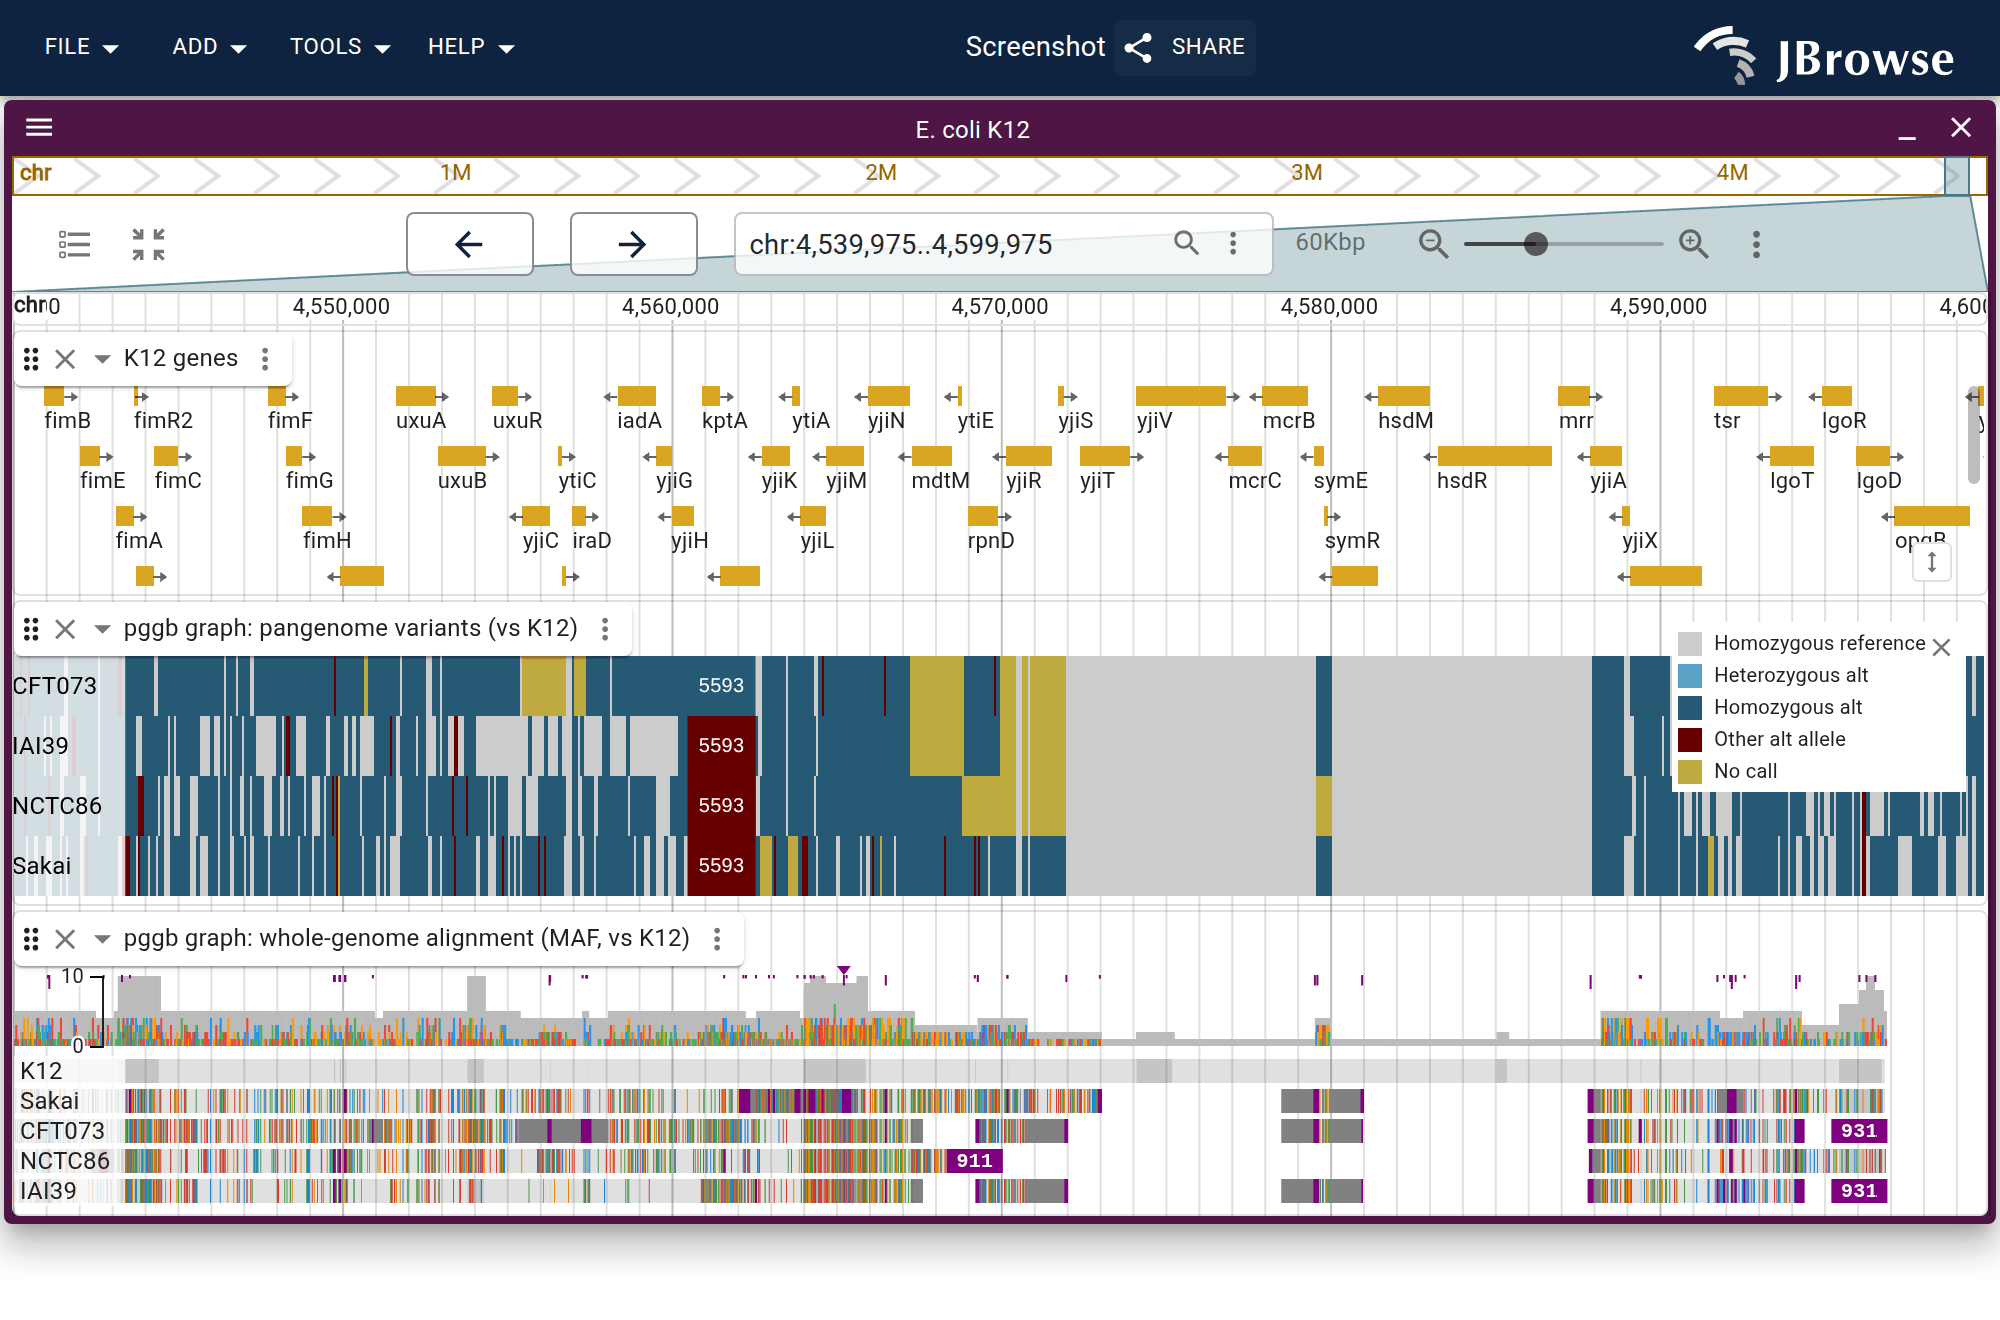
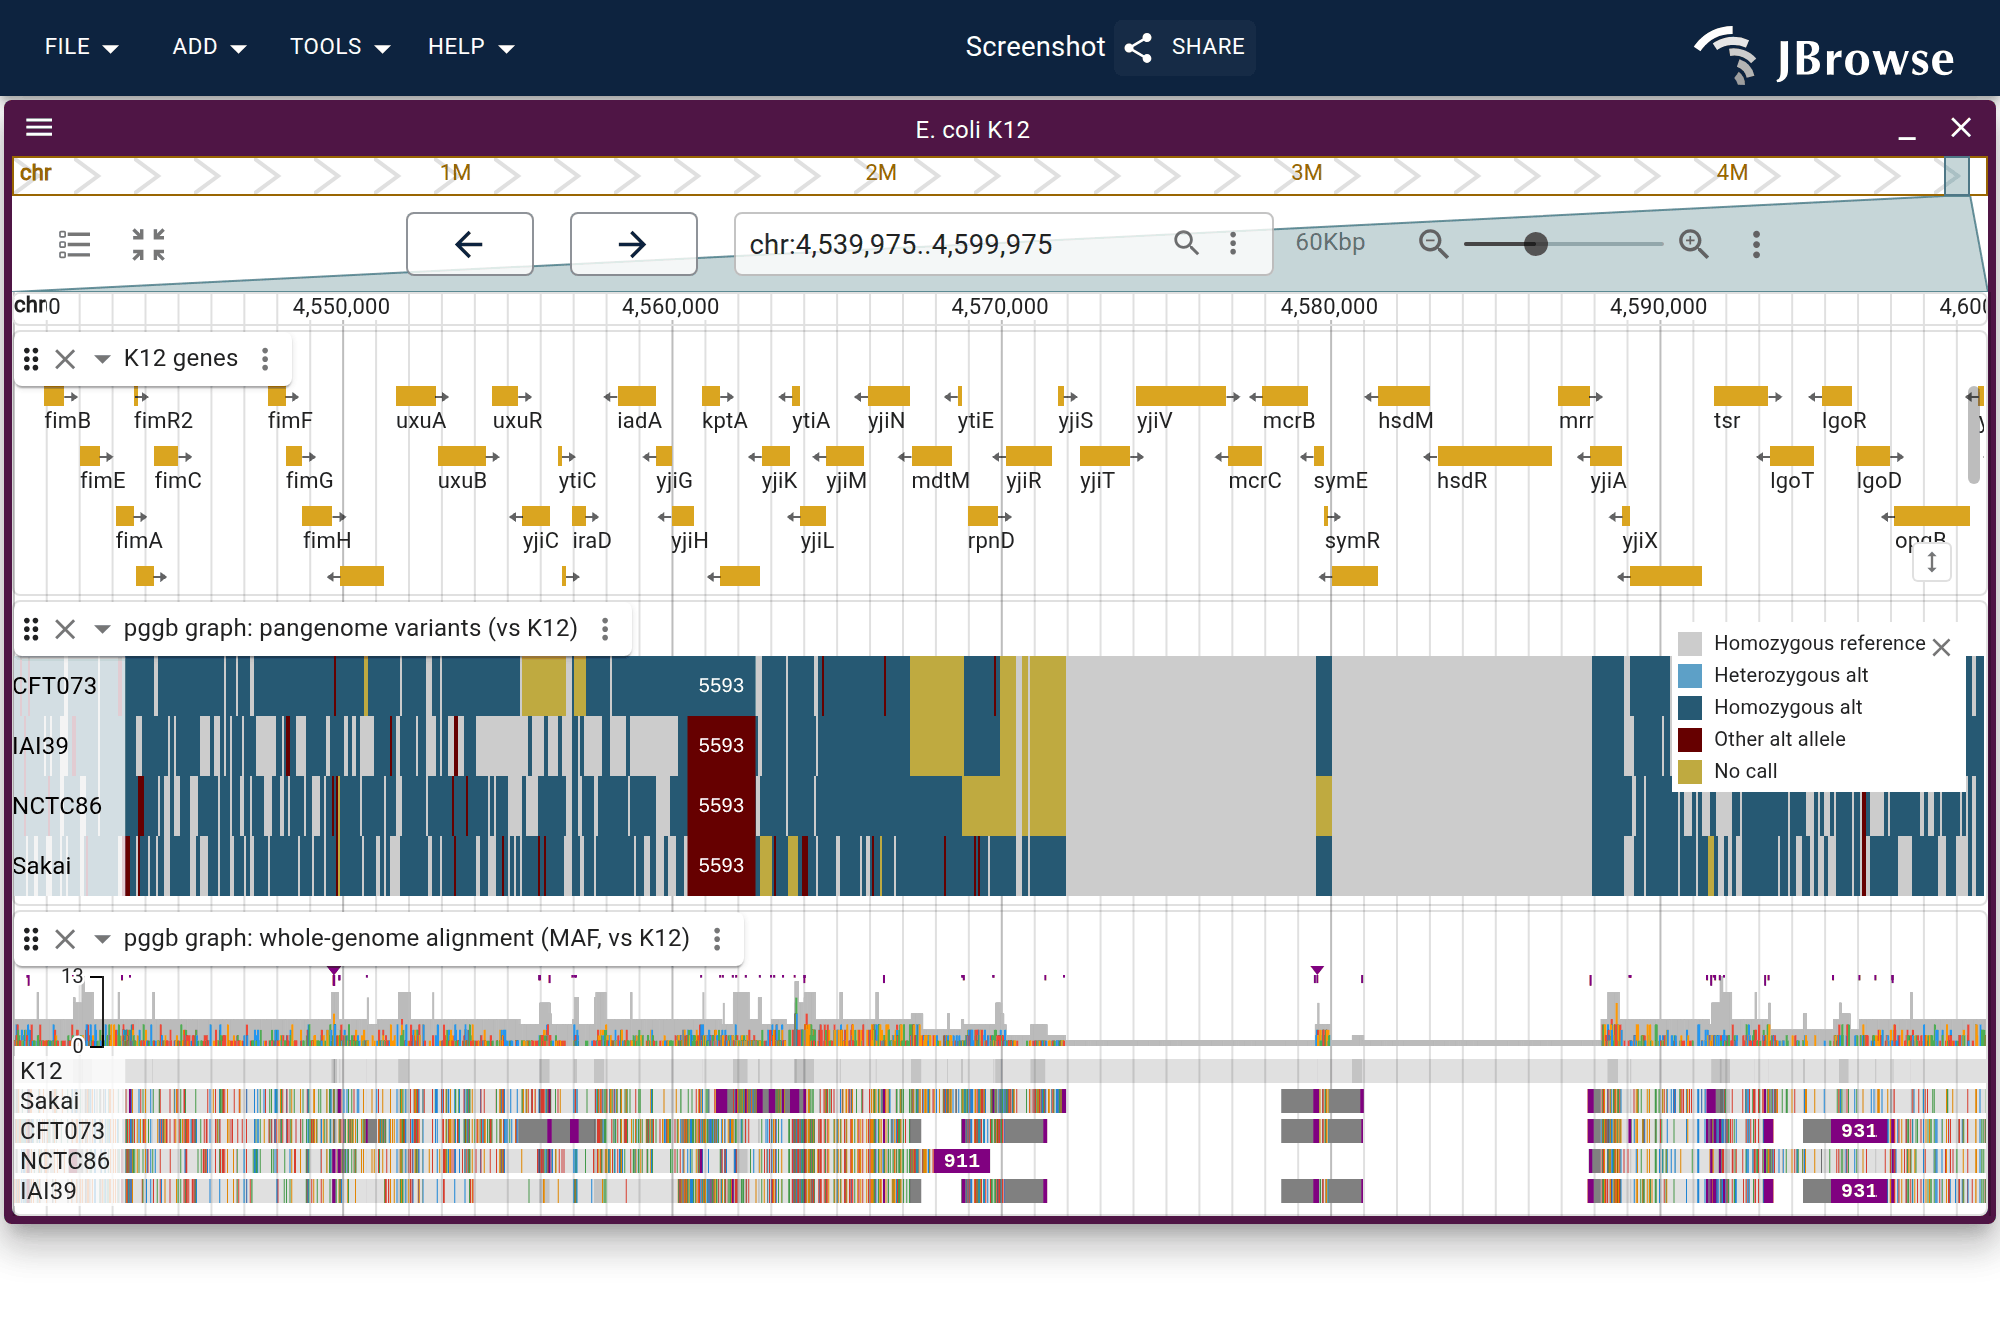
fix(pangenome): keep one reference row per split block, its own
A split block kept the other reference copies as ordinary rows. Both MAF adapters
do `alignments[assemblyName] = row` while parsing, so the last copy in the block
wins: the block's interval came from the copy at row 0 while its reference
sequence came from a copy hundreds of kb away. Each emitted block now carries its
own reference row plus every non-reference row.

Nothing is lost, because each copy still anchors a block of its own: K12 coverage
stays complete at 4,641,652 with 0 unreachable, and per-strain coverage stays
identical to the source MAF. Not the reverted "drop the surplus rows" change,
which deleted copies outright.

Both figures re-render byte-identically, so this was latent rather than visible,
and the hosted BED is redeployed either way.

Also updates the two pangenome figures for the tabix switch: the MAF rows and
insertion markers are unchanged, but the coverage band's axis max reads 13 where
the TAF read 10, since the BED carries the MAF's blocks as-is rather than taffy's
re-blocked ones.

Changed region(s): [[0.0, 0.7144, 0.589, 0.9318], [0.806, 0.7455, 1.0, 0.9318], [0.651, 0.7765, 0.682, 0.8386]]

diff --git a/scripts/check-build-scripts.py b/scripts/check-build-scripts.py
@@ -114,9 +114,10 @@ def load(path, name):
 #   - SPLIT into one block per reference row. Any MAF index keys a block on row 0
 #     (a .tai record, a tabix BED interval), so a copy sharing a block is
 #     unreachable by region query.
-#   - keep every row in every emitted block. The adapters key `alignments` by
-#     sample name, so a duplicate is one lane at display time; dropping deletes
-#     data to fix nothing.
+#   - keep every NON-reference row, and only this block's own reference row. The
+#     adapters key `alignments` by sample name with last-row-wins, so a second
+#     reference copy would supply the sequence for an interval that came from the
+#     first. Dropping copies outright was tried and reverted; it deletes data.
 #   - anchor the first emitted block on the FIRST reference row, not the leftmost.
 #     Leftmost perturbs taffy's differential TAF encoding and loses region
 #     queries.
@@ -132,12 +133,17 @@ kept = list(reroot_maf.reroot(
 check("reroot splits one block per reference row", len(kept), 2)
 check("reroot anchors each block on its own reference copy",
       [b[0][2] for b in kept], ["500", "100"])
-check("reroot keeps every row in every block",
-      [sorted((r[1], r[2]) for r in b) for b in kept],
-      [sorted([("REF#1#chr", "500"), ("other#1#chr", "20"),
-               ("REF#1#chr", "100")])] * 2)
-check("reroot loses no aligned bases",
-      [sum(int(r[3]) for r in b) for b in kept], [30, 30])
+# exactly one reference row per block, its own: the adapters key `alignments` by
+# assembly name and the last row wins, so a second copy in the block would supply
+# the reference sequence while the block's interval came from the first.
+check("reroot keeps one reference row per block, its own",
+      [[r[1] for r in b] for b in kept],
+      [["REF#1#chr", "other#1#chr"]] * 2)
+check("reroot keeps every non-reference row",
+      [[(r[1], r[2]) for r in b[1:]] for b in kept],
+      [[("other#1#chr", "20")]] * 2)
+check("reroot loses no reference copy across the emitted blocks",
+      sorted(b[0][2] for b in kept), ["100", "500"])
 # a '-' reference row flips the block
 kept = list(reroot_maf.reroot([row("REF#1#chr", 100, "-"), row("other#1#chr", 20)]))
 check("reroot normalizes the reference to '+'", kept[0][0][4], "+")

diff --git a/scripts/reroot_maf.py b/scripts/reroot_maf.py
@@ -82,20 +82,27 @@ def _flip(rows):
 
 
 def reroot(rows):
-    """Yield one block per REF row, each with that row moved to position 0.
+    """Yield one block per REF row: that row at position 0, plus the other rows.
 
-    A block with several REF rows is a collapsed repeat. taffy's .tai files a
-    block under row 0's coordinates only, so a surplus copy cannot be reached by
-    a region query while it shares a block. One block per copy makes every copy
-    queryable, at the cost of repeating the other rows once per copy.
+    A block with several REF rows is a collapsed repeat. A block is found through
+    row 0's interval alone, so a surplus copy cannot be reached by a region query
+    while it shares a block. One block per copy makes every copy queryable, at
+    the cost of repeating the non-reference rows once per copy.
+
+    Each emitted block carries exactly ONE reference row, its own. Keeping the
+    other copies would break every consumer that maps a row to a sample by name:
+    the adapters key on assembly name and the last row wins, so the block's
+    interval would say one copy while its reference sequence came from another.
+    Nothing is lost by leaving them out, since each copy anchors its own block.
 
     Blocks are emitted per copy in row order and sorted by reference start
-    afterwards, which the .tai requires.
+    afterwards, which an interval index needs.
     """
     for i in (k for k, r in enumerate(rows) if r[1] == REF):
         # order-preserving, so i still indexes the same row
         block = _flip(rows) if rows[i][4] == "-" else rows
-        yield [block[i]] + [r for k, r in enumerate(block) if k != i]
+        yield [block[i]] + [r for k, r in enumerate(block)
+                            if k != i and r[1] != REF]
 
 
 def main():
